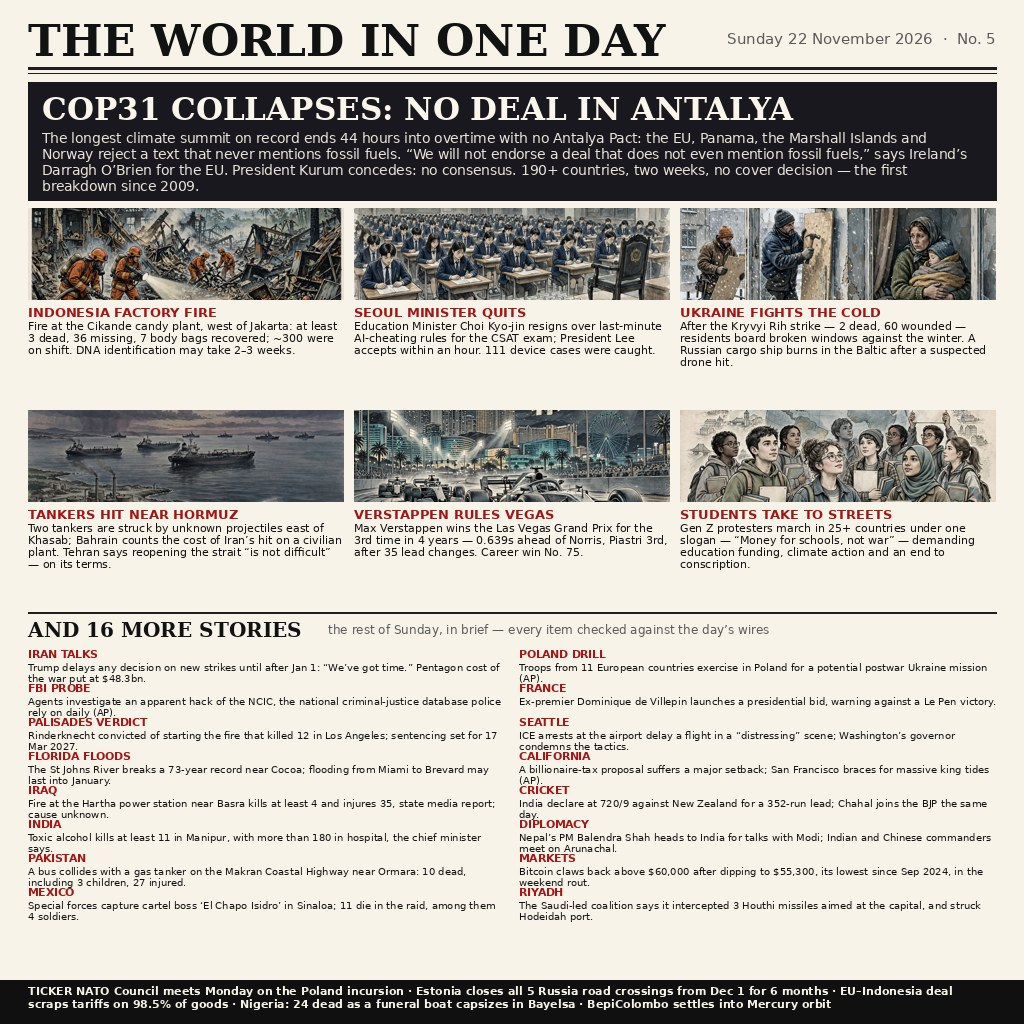
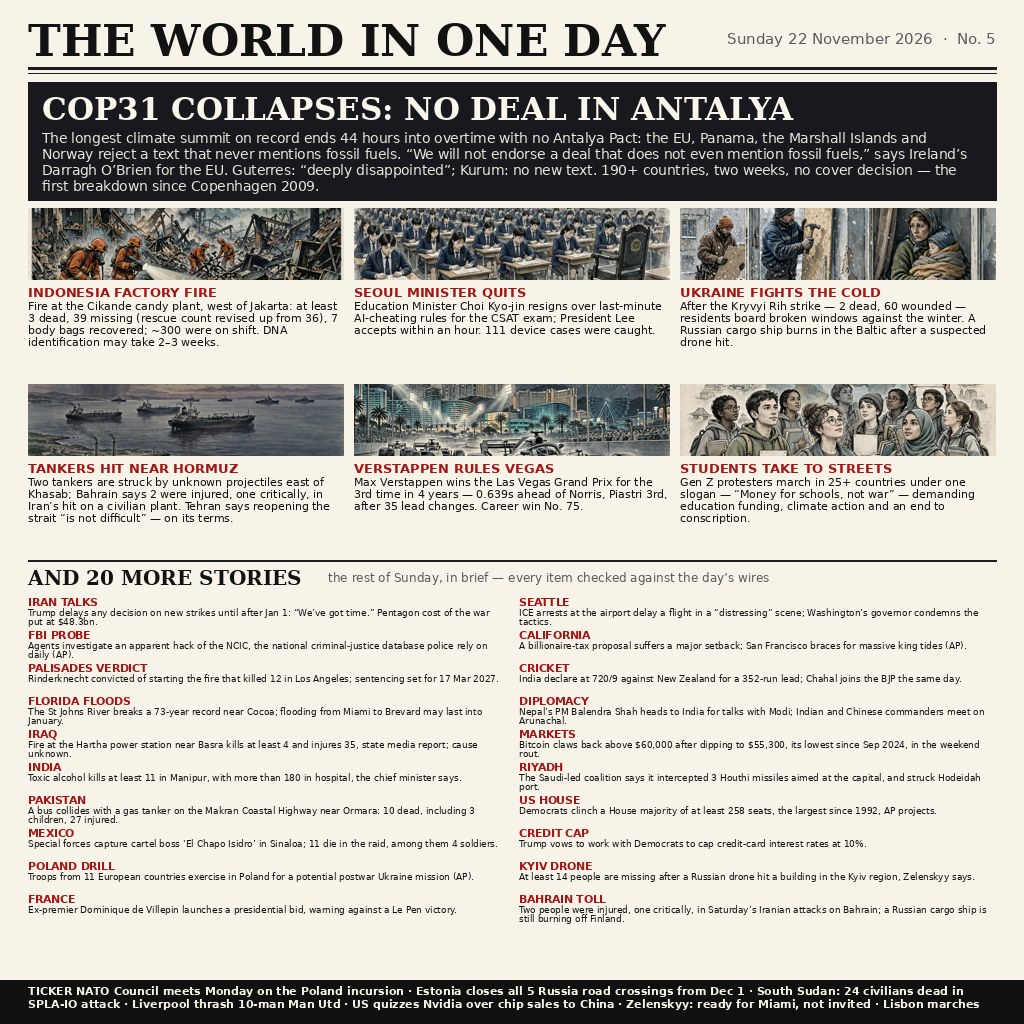
Full-day edition: 33 stories, revised factory toll, Guterres reaction, House majority, Kyiv drone

Changed region(s): [[0.0, 0.1562, 0.9688, 0.9062], [0.0312, 0.9375, 0.9375, 1.0]]

diff --git a/main.ts b/main.ts
@@ -8,8 +8,11 @@
 // Indonesia, South Korea's education minister resigning over AI-cheating
 // rules, Ukraine bracing for winter after the Kryvyi Rih strike, tankers
 // hit near Hormuz, Verstappen's Las Vegas win and student protests in
-// 25+ countries — plus 16 more briefs and a five-item ticker, 27 stories
-// in all.
+// 25+ countries — plus 20 more briefs and a seven-item ticker, 33 stories
+// in all.  This is the full-day edition: the factory toll was revised to
+// 39 missing, Bahrain's injured were counted, and the House majority,
+// the credit-card cap, the Kyiv drone strike and the South Sudan attack
+// were added from the morning wires.
 //
 // This program copies that image to the output directory untouched, so
 // both graded runs write exactly the same bytes.  Outside the grader's
@@ -23,8 +26,8 @@ const outDir = process.env.MAKEFUN_OUTPUT_DIR ?? '/output';
 const poster = readFileSync(new URL('./entry.png', import.meta.url));
 const target = join(outDir, 'entry.png');
 
-// The poster packs 27 stories (1 lead, 6 illustrated cards, 16 briefs and
-// a 5-item ticker counting as 4 further stories plus the masthead date
+// The poster packs 33 stories (1 lead, 6 illustrated cards, 20 briefs and
+// a 7-item ticker counting as 6 further stories plus the masthead date
 // line); an empty or truncated file can never be that front page, so
 // refuse anything implausibly small before the format checks below.
 if (poster.length < 10_000) {

diff --git a/README.md b/README.md
@@ -4,7 +4,7 @@
 [![rank](https://make.fun/badge/news-image-20261122/lkapi0819-cli/news-image-20261122/rank.svg)](https://make.fun/bounty/news-image-20261122/leaderboard?utm_source=github&utm_medium=readme&utm_campaign=news-image-20261122)
 [![reward](https://make.fun/badge/news-image-20261122/lkapi0819-cli/news-image-20261122/reward.svg)](https://make.fun/bounty/news-image-20261122?utm_source=github&utm_medium=readme&utm_campaign=news-image-20261122)
 
-"The World in One Day" — a high-density front-page poster summing up Sunday 22 November 2026 in one 1024×1024 image with 27 stories: the COP31 climate summit collapsing in Antalya after 44 hours of overtime (the EU, Panama, the Marshall Islands and Norway rejecting a pact that never mentions fossil fuels), the Cikande candy-factory fire in Indonesia (at least 3 dead, 36 missing), South Korea's education minister resigning over AI-cheating rules for the CSAT (111 device cases), Ukraine bracing for winter after the Kryvyi Rih strike, two tankers hit near Hormuz, Verstappen winning in Las Vegas for the third time in four years (0.639s, 35 lead changes, career win 75), and Gen Z student protests in 25+ countries — plus 16 more briefs (Trump's Iran timeline, the FBI's NCIC probe, the Palisades verdict, Florida's record floods, India's 720/9 against New Zealand, Bitcoin's rebound above $60,000 and more) and a five-item ticker. The poster was composed from six AI-illustrated panels with a Python/Pillow layout script; `main.ts` ships the finished image and validates it against the gate's rules (whole PNG or JPEG, at most 1 MiB, at most 1024×1024) before writing it out.
+"The World in One Day" — a high-density front-page poster summing up Sunday 22 November 2026 in one 1024×1024 image with 33 stories: the COP31 climate summit collapsing in Antalya after 44 hours of overtime (the EU, Panama, the Marshall Islands and Norway rejecting a pact that never mentions fossil fuels; Guterres "deeply disappointed", the first COP with no agreement since Copenhagen 2009), the Cikande candy-factory fire in Indonesia (at least 3 dead, 39 missing), South Korea's education minister resigning over AI-cheating rules for the CSAT (111 device cases), Ukraine bracing for winter after the Kryvyi Rih strike, two tankers hit near Hormuz, Verstappen winning in Las Vegas for the third time in four years (0.639s, 35 lead changes, career win 75), and Gen Z student protests in 25+ countries — plus 20 more briefs (the Democrats' 258-seat House majority, Trump's 10% credit-card cap, the Kyiv drone strike with 14 missing, the FBI's NCIC probe, the Palisades verdict, Florida's record floods, India's 720/9 against New Zealand, Bitcoin's rebound above $60,000 and more) and a seven-item ticker. The poster was composed from six AI-illustrated panels with a Python/Pillow layout script; `main.ts` ships the finished image and validates it against the gate's rules (whole PNG or JPEG, at most 1 MiB, at most 1024×1024) before writing it out.
 
 ## Run it
 
